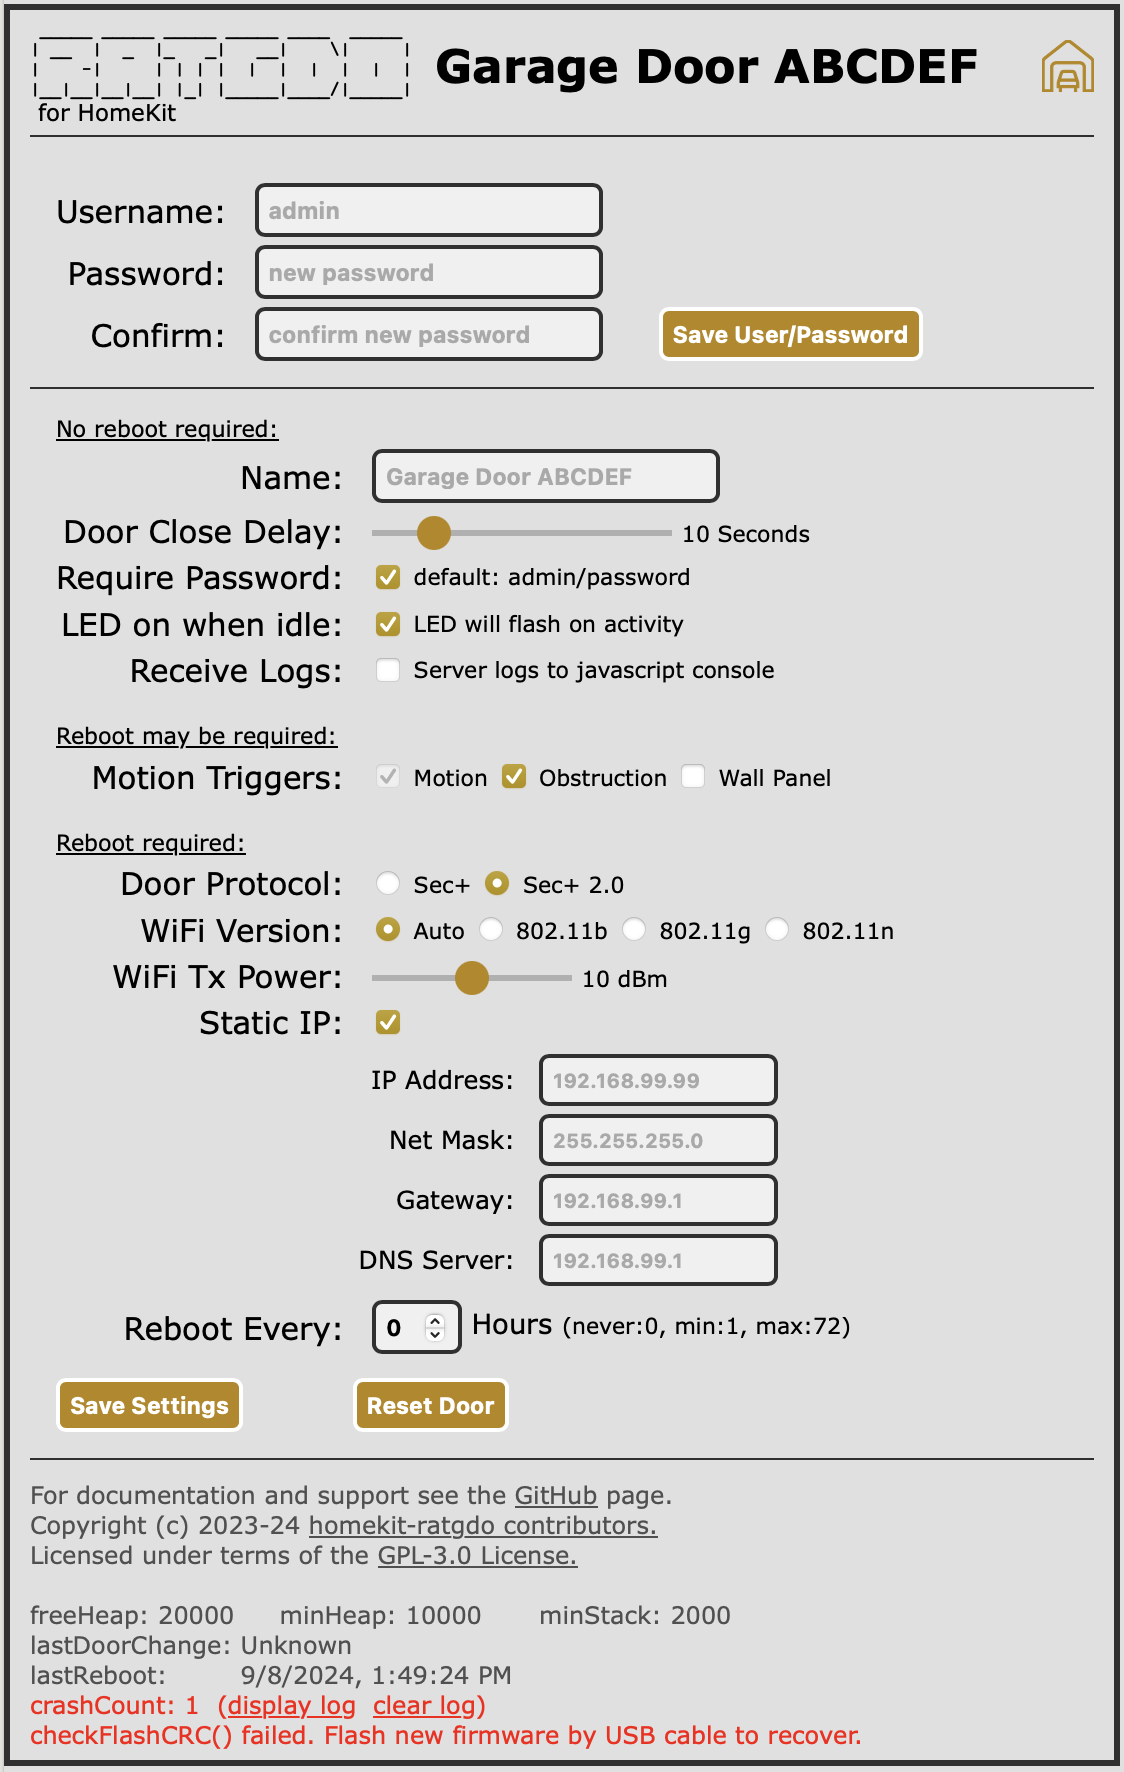
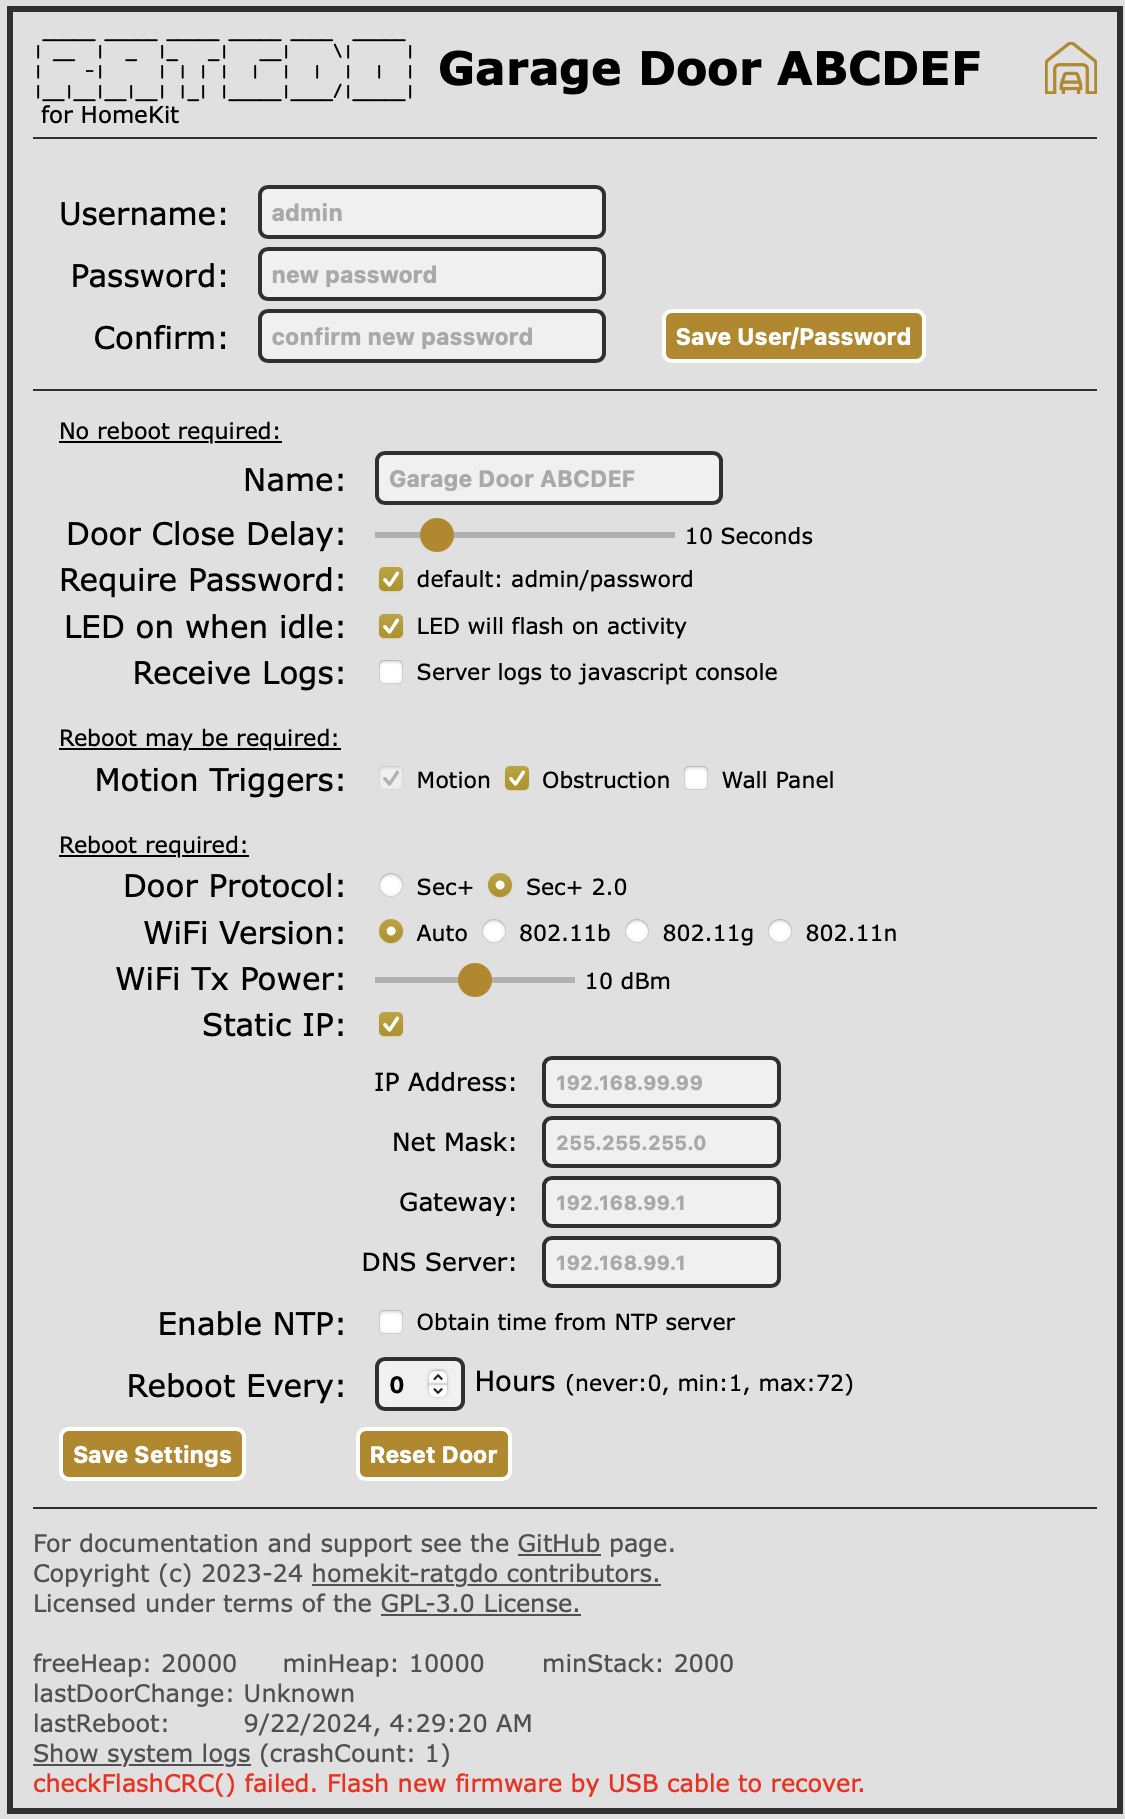
Add setting to enable NTP client, off by default

Changed region(s): [[0.0, 0.0, 1.0, 1.0]]

diff --git a/src/www/functions.js b/src/www/functions.js
@@ -111,6 +111,9 @@ function setElementsFromStatus(status) {
                 document.getElementById(key).checked = value;
                 document.getElementById("staticIPtable").style.display = (value) ? "table" : "none";
                 break;
+            case "enableNTP":
+                document.getElementById(key).checked = value;
+                break;
             case "lastDoorUpdateAt":
                 date.setTime(Date.now() - value);
                 document.getElementById(key).innerHTML = (document.getElementById("lastRebootAt").innerHTML == date.toLocaleString()) ? "Unknown" : date.toLocaleString();
@@ -656,6 +659,8 @@ async function saveSettings() {
     if (gatewayIP.length == 0) gatewayIP = serverStatus.gatewayIP;
     let nameserverIP = document.getElementById("IPnameserver").value.substring(0, 15);
     if (nameserverIP.length == 0) nameserverIP = serverStatus.nameserverIP;
+    const enableNTP = (document.getElementById("enableNTP").checked) ? '1' : '0';
+
 
     // check IP addresses valid
     const regexIPv4 = /^(([0-9]|[1-9][0-9]|1[0-9]{2}|2[0-4][0-9]|25[0-5])\.){3}([0-9]|[1-9][0-9]|1[0-9]{2}|2[0-4][0-9]|25[0-5])$/i;
@@ -678,7 +683,8 @@ async function saveSettings() {
         "localIP", localIP,
         "subnetMask", subnetMask,
         "gatewayIP", gatewayIP,
-        "nameserverIP", nameserverIP
+        "nameserverIP", nameserverIP,
+        "enableNTP", enableNTP
     );
     if (reboot) {
         countdown(30, "Settings saved, RATGDO device rebooting...&nbsp;");

diff --git a/src/www/index.html b/src/www/index.html
@@ -308,11 +308,12 @@
                     </tr>
                   </table>
                 </td>
+              </tr>
               <tr>
-                <td class="label">Reboot Every:</td>
+                <td class="label">Enable NTP:</td>
                 <td>&nbsp;
-                  <input type="number" id="rebootHours" name="rebootHours" value="0" , min="0" , max="72" , step="1">
-                  Hours <span style="font-size: 0.8em;">(never:0, min:1, max:72)</span>
+                  <input type="checkbox" id="enableNTP" name="enableNTP" value="no">
+                  <span style="font-size: 0.8em;">Obtain time from NTP server</span>
                 </td>
               </tr>
               <tr>
@@ -320,6 +321,13 @@
                   <!--
                     Future settings go here
                   -->
+                </td>
+              </tr>
+              <tr>
+                <td class="label">Reboot Every:</td>
+                <td>&nbsp;
+                  <input type="number" id="rebootHours" name="rebootHours" value="0" , min="0" , max="72" , step="1">
+                  Hours <span style="font-size: 0.8em;">(never:0, min:1, max:72)</span>
                 </td>
               </tr>
               <tr>

diff --git a/src/www/logs.html b/src/www/logs.html
@@ -115,7 +115,7 @@ Loading...
         let date = new Date();
         while ((i = text.indexOf('>>> [', i) + 1) > 0) {
           let j = text.indexOf(']', i);
-          let logTime = parseInt(text.substring(i + 5, j));
+          let logTime = parseInt(text.substring(i + 4, j));
           date.setTime(startTime + logTime);
           text = text.substring(0, i - 1) + '[' + date.toJSON() + text.substring(j)
         }

diff --git a/src/web.cpp b/src/web.cpp
@@ -219,17 +219,24 @@ void web_loop()
     {
         RINFO("Current Door State changing from %d to %d", lastDoorState, garage_door.current_state);
 #ifdef NTP_CLIENT
-        if (lastDoorState == 0xff)
+        if (enableNTP && timeClient.isTimeSet())
         {
-            // initialize with saved time.
-            // lastDoorUpdateAt is milliseconds relative to system reboot time.
-            lastDoorUpdateAt = ((savedDoorUpdateAt != 0) && timeClient.isTimeSet()) ? ((savedDoorUpdateAt - timeClient.getEpochTime()) * 1000) + upTime : 0;
+            if (lastDoorState == 0xff)
+            {
+                // initialize with saved time.
+                // lastDoorUpdateAt is milliseconds relative to system reboot time.
+                lastDoorUpdateAt = (savedDoorUpdateAt != 0) ? ((savedDoorUpdateAt - timeClient.getEpochTime()) * 1000) + upTime : 0;
+            }
+            else
+            {
+                // first state change after a reboot, so really is a state change.
+                write_int_to_file(lastDoorUpdateFile, timeClient.getEpochTime());
+                lastDoorUpdateAt = upTime;
+            }
         }
         else
         {
-            // first state change after a reboot, so really is a state change.
-            write_int_to_file(lastDoorUpdateFile, timeClient.isTimeSet() ? timeClient.getEpochTime() : 0);
-            lastDoorUpdateAt = upTime;
+            lastDoorUpdateAt = (lastDoorState == 0xff) ? 0 : upTime;
         }
 #else
         lastDoorUpdateAt = (lastDoorState == 0xff) ? 0 : upTime;
@@ -572,7 +579,11 @@ void handle_status()
     // We send milliseconds relative to current time... ie updated X milliseconds ago
     ADD_INT(json, "lastDoorUpdateAt", (upTime - lastDoorUpdateAt));
 #ifdef NTP_CLIENT
-    ADD_INT(json, "serverTime", (timeClient.isTimeSet()) ? timeClient.getEpochTime() : 0);
+    ADD_BOOL(json, "enableNTP", enableNTP);
+    if (enableNTP && timeClient.isTimeSet())
+    {
+        ADD_INT(json, "serverTime", timeClient.getEpochTime());
+    }
 #endif
     ADD_BOOL(json, "checkFlashCRC", flashCRC);
     END_JSON(json);
@@ -793,6 +804,13 @@ void handle_setgdo()
             write_int_to_file(ledIdleStateFile, (idleStateOn) ? LOW : HIGH);
             led.setIdleState((idleStateOn) ? LOW : HIGH);
         }
+#ifdef NTP_CLIENT
+        else if (!strcmp(key, "enableNTP"))
+        {
+            write_int_to_file(enableNTPFile, (atoi(value) != 0) ? 1 : 0);
+            reboot = true;
+        }
+#endif
         else if (!strcmp(key, "updateUnderway"))
         {
             firmwareSize = 0;

diff --git a/src/utilities.cpp b/src/utilities.cpp
@@ -56,6 +56,8 @@ const char motionTriggersFile[] = "motion_triggers";
 #ifdef NTP_CLIENT
 WiFiUDP ntpUDP;
 NTPClient timeClient(ntpUDP);
+bool enableNTP = false;
+const char enableNTPFile[] = "enable_ntp_client";
 unsigned long lastRebootAt = 0;
 const char lastDoorUpdateFile[] = "last_door_update";
 int32_t savedDoorUpdateAt = 0;
@@ -122,15 +124,23 @@ void load_all_config_settings()
     motionTriggers.asInt = (uint8_t)read_int_from_file(motionTriggersFile);
     RINFO("Motion sensor trigger setting: %d", motionTriggers.asInt);
 #ifdef NTP_CLIENT
-    savedDoorUpdateAt = read_int_from_file(lastDoorUpdateFile);
-    RINFO("Last saved door update at: %s", (savedDoorUpdateAt != 0) ? timeString(savedDoorUpdateAt) : "unknown");
+    enableNTP = (read_int_from_file(enableNTPFile) != 0);
+    RINFO("NTP client %s enabled", (enableNTP) ? "is" : "not");
+    if (enableNTP)
+    {
+        savedDoorUpdateAt = read_int_from_file(lastDoorUpdateFile);
+        RINFO("Last saved door update at: %s", (savedDoorUpdateAt != 0) ? timeString(savedDoorUpdateAt) : "unknown");
+    }
 #endif
 }
 
 void sync_and_restart()
 {
 #ifdef NTP_CLIENT
-    timeClient.end();
+    if (enableNTP)
+    {
+        timeClient.end();
+    }
 #endif
     RINFO("checkFlashCRC: %s", ESP.checkFlashCRC() ? "true" : "false");
     WiFi.mode(WIFI_OFF);

diff --git a/src/ratgdo.cpp b/src/ratgdo.cpp
@@ -79,8 +79,10 @@ void setup()
     setup_web();
 
 #ifdef NTP_CLIENT
-    timeClient.begin();
-    timeClient.setUpdateInterval(10 * 60); // Update NTP clock every 10 minutes
+    if (enableNTP)
+    {
+        timeClient.begin();
+    }
 #endif
 
     led.idle();
@@ -209,11 +211,14 @@ void service_timer_loop()
     unsigned long current_millis = millis();
 
 #ifdef NTP_CLIENT
-    timeClient.update();
-    if (lastRebootAt == 0 && timeClient.isTimeSet())
+    if (enableNTP)
     {
-        lastRebootAt = timeClient.getEpochTime() - (current_millis / 1000);
-        RINFO("Current time: %s", timeString());
+        timeClient.update();
+        if (lastRebootAt == 0 && timeClient.isTimeSet())
+        {
+            lastRebootAt = timeClient.getEpochTime() - (current_millis / 1000);
+            RINFO("Current time: %s", timeString());
+        }
     }
 #endif
     // LED flash timer

diff --git a/src/log.cpp b/src/log.cpp
@@ -146,13 +146,16 @@ extern "C" uint32_t free_iram_heap;
 void printMessageLog(Print &outputDev)
 {
 #ifdef NTP_CLIENT
-    static uint32_t currentTime = 0;
-    currentTime = timeClient.getEpochTime();
-    outputDev.write("Server time (secs): ");
-    outputDev.print(currentTime);
-    outputDev.write(" - ");
-    outputDev.write(timeString(currentTime));
-    outputDev.println();
+    if (enableNTP && timeClient.isTimeSet())
+    {
+        static uint32_t currentTime = 0;
+        currentTime = timeClient.getEpochTime();
+        outputDev.write("Server time (secs): ");
+        outputDev.print(currentTime);
+        outputDev.write(" - ");
+        outputDev.write(timeString(currentTime));
+        outputDev.println();
+    }
 #endif
     outputDev.write("Server uptime (ms): ");
     outputDev.println(millis());

diff --git a/src/utilities.h b/src/utilities.h
@@ -12,6 +12,8 @@ extern NTPClient timeClient;
 extern unsigned long lastRebootAt;
 extern char *timeString(time_t reqTime = 0);
 
+extern bool enableNTP;
+extern const char enableNTPFile[];
 extern const char lastDoorUpdateFile[];
 extern int32_t savedDoorUpdateAt;
 #endif

diff --git a/README.md b/README.md
@@ -135,6 +135,12 @@ If selected then you can enter a static IP address, network mask, gateway IP and
 > [!WARNING]
 > If you enter an IP address that is not valid on your network then you will not be able to access the device by web browser or from HomeKit. If the device fails to automatically recover by resetting to DHCP, then the only recovery is to flash the ratgdo over the USB port using the web installer AND select the option to erase the device.  This will factory reset the device and you will have to remove the garage door accessory from HomeKit and then add it again.
 
+### Enable NTP
+
+The ratgdo device will obtain current time from an NTP server. This requires internet access and the default setting is disabled.
+
+When enabled, the _lastDoorChange_ date and time (reported at the bottom of the web page) is saved across reboots and the actual time of log data is reported when viewed in the browser system logs page.  No adjustment is made for time zones, time is reported in UTC/GMT.
+
 ### Reboot Every
 
 During early devlopment there were several reports that the ratgdo device would reset itself and loose its pairing with HomeKit. To reduce the chance of this occuring a regular (e.g. daily) reboot of the device provided a work-around. The firmware is far more stable now and it is hoped that this is no longer required. This setting may be removed in future versions.
@@ -336,6 +342,8 @@ The _lastDoorChange_ will show the date and time that the door was last opened o
 ### Show system logs
 
 Clicking on the system logs link will open a new browser tab with details of current and saved logs.  On this page you can select to view the current system log, the current system status in raw JSON format, the system log immediately before the last user requested reboot or reset, and the system log immediately before the last crash. If you open an issue on GitHub then please copy/paste the full crash log into the issue.
+
+If you enable NTP time server then the actual UTC/GMT time of system logs is shown instead of milliseconds since last boot.
 
 ## How can I contribute?
 

diff --git a/CHANGELOG.md b/CHANGELOG.md
@@ -13,6 +13,7 @@ All notable changes to `homekit-ratgdo` will be documented in this file. This pr
 * New feature... allow user to set static IP address.
 * New feature... add new system logs page (opens in new browser tab).
 * New feature... add spinning page-loading icon to provide feedback on slow network links
+* New feature... add option to obtain real time from NTP sever
 * Cleanup... consolidated all code for retrieving user configured settings into one file (utilities.cpp).
 
 ### Known Issues
